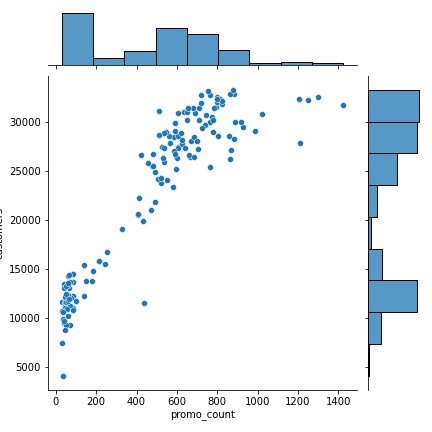
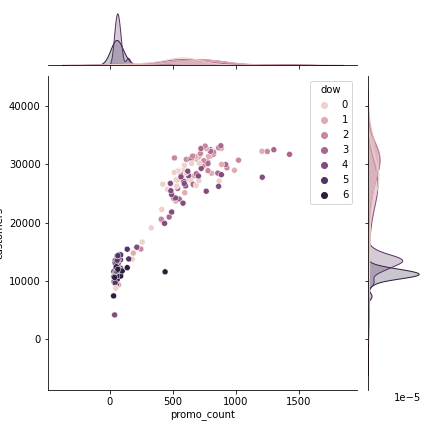
final

diff --git a/hey-you-streamlit.py b/hey-you-streamlit.py
@@ -39,7 +39,10 @@ Hey You in terms of getting customers, placing orders to the kitchen,
 getting paid for the orders, setting up the logistics of the delivery, 
 and marketing through promos and the website blog.
   
-  
+
+Data Limitations
+- Structure of the data is per hour, per day and not per transaction
+
   
 GitHub: maglang/hey-you-analysis
 """)
@@ -77,6 +80,8 @@ if option == '1. Describe customer behavior over time':
     *weekends*, the non-peak hours of the week.
 
     """
+
+    
     a1, b1 = st.beta_columns(2)
     amt_cust_dow = pd.DataFrame.from_dict({'day of week': ['Monday', 'Tuesday', 'Wednesday',  
     'Thursday',    'Friday',  'Saturday',    'Sunday'],
@@ -110,10 +115,42 @@ if option == '2. Describe customer profile':
     - 22903 orders
     - 1 order per customer
     - 8.11 AUD spent per order 
-      
-     
-
     
+    At the day of week level, the metrics are:
+    """   
+
+    dow_summary = pd.DataFrame.from_dict({
+        'Day of Week': ['Monday', 'Tuesday', 'Wednesday', 'Thursday', 'Friday', 'Saturday',
+       'Sunday'],
+       'customers': [555906.0, 581544.0, 604730.0, 605350.0, 525182.0, 286384.0, 241604.0], 
+       'orders': [564142.0, 590508.0, 614612.0, 615342.0, 534720.0, 292402.0, 246774.0],
+       'order_per_customer': [1.0148154544113572, 1.0154141389129627, 1.0163411770542226, 
+       1.0165061534649376, 1.01816132312227, 1.021013743784569, 1.021398652340193],
+       'amount_per_order': [6.842192781250104, 6.789480582820217, 6.891127768413241, 
+       7.004108902041465, 7.682790843806101, 10.076126975875667, 10.649719014158707]
+       }) 
+    dow_summary
+
+    """At the hourly level, the metrics are:"""
+
+    hour_summary = pd.DataFrame.from_dict({'Hour of day': [ 0,  1,  2,  3,  4,  5,  6,  7,  8,  9, 10, 11, 12, 13, 14, 15, 16,
+            17, 18, 19, 20, 21, 22, 23],
+            'customers': [4.0, 2.0, 6.0, 2.0, 12.0, 14582.0, 224750.0, 635220.0, 927164.0, 583956.0, 363232.0, 207140.0, 
+            156904.0, 132200.0, 93600.0, 42760.0, 8652.0, 3820.0, 3212.0, 2372.0, 886.0, 178.0, 38.0, 8.0],
+            'orders': [4.0, 2.0, 6.0, 2.0, 12.0, 14654.0, 227490.0, 644870.0, 941822.0, 595374.0, 370352.0, 211064.0, 159894.0,
+            134488.0, 95428.0, 43574.0, 8802.0, 3878.0, 3260.0, 2402.0, 898.0, 178.0, 38.0, 8.0],
+            'order_per_customer': [1.0, 1.0, 1.0, 1.0, 1.0, 1.0049375942943355, 1.0121913236929923, 1.015191587166651, 
+            1.0158095008002899, 1.0195528430224194, 1.0196017971984848, 1.0189437095684077, 1.0190562382093509, 1.0173071104387292,
+            1.0195299145299146, 1.0190364826941067, 1.0173370319001387, 1.0151832460732984, 1.0149439601494397, 1.0126475548060707, 
+            1.0135440180586908, 1.0, 1.0, 1.0],
+            'amount_per_order': [25.0, 100.0, 36.666666666666664, 50.0, 8.0, 7.126492425276375, 7.039530792562313, 6.972432025059304, 
+            6.7566209538532815, 7.4463139807918965, 7.854607022508305, 8.893474680665577, 10.941265463369483, 8.932071114151453, 
+            6.764872364505179, 6.186674163491988, 8.558582140422633, 24.077194430118624, 41.3845337423313, 40.98659450457953, 
+            38.46897550111359, 41.17561797752809, 30.414736842105263, 30.625]
+            })
+    hour_summary
+
+    """
     We can speculate the customer segments by looking at the promo targeting:
     - One segment has a higher than average amount (higher purchasing power) and avails of less promos
     - Most of the customers belong to the second segment; 
@@ -131,7 +168,12 @@ if option == '2. Describe customer profile':
     """
     - These graphs also show that promos have an inverse effect on the average amount per customer. More customers are ordering
     but customers with a basket that is below the average amount. Depending on the business model, this could increase (if business 
-    model earns from more customers) or slow down (if business model earns from amount of order) the bottomline."""
+    model earns from more customers) or slow down (if business model earns from amount of order) the bottomline.
+    
+    ### Next Steps:
+    - The joint plot shows that the analysis could be wrong when plotted against day of week. The segments described could be affected
+    by the weekly seasonality. Thus, a better way to describe customer profile and segments could be to analyze distinct customer data and behavior.
+    """
 
 if option == '3. Describe the impact of the AI system':
 
@@ -141,11 +183,83 @@ if option == '3. Describe the impact of the AI system':
     The AI system was deployed after the first week March 2021.
     
     --------------------------
+    ### Before vs After AI Deployment
+
+
+    Year to date aggregation metrics are:
+    """
+    metrics_ai = pd.DataFrame.from_dict({"metric":['order_per_customer', 'amount_per_order', 'promo_per_customer',  
+    'order_per_vendor', 'amount_per_vendor', 'promo_per_vendor'],
+       "Before AI": [1.0170220852836773, 7.5646278091047, 0.021160261601127734, 3.5300247954901876, 26.703323734794207, 0.07344604331793328],
+       "Deployed AI": [1.0169105716065427, 7.482367307944383, 0.02086072938215021, 3.773068802191322, 28.23148665614122, 0.07740008750071332]})
+    metrics_ai['pct_change'] = round(((metrics_ai['Deployed AI']/metrics_ai['Before AI']) - 1)*100, 2)
+    metrics_ai['pct_change'] = metrics_ai['pct_change'].astype(str) + "%"
+    metrics_ai
+    """
+    
+
+    ### Daily Metrics
+
+    On a daily level, the metrics before AI was deployed are:"""
+
+    pre_ai_metrics = pd.DataFrame.from_dict({'Day of week': ['Monday', 'Tuesday', 'Wednesday', 'Thursday', 'Friday', 'Saturday',
+       'Sunday'],
+       'order_per_customer': [1.014903129657228, 1.015493835619466, 1.0163808063619362, 1.016583852233893, 1.0180987353684507, 1.021139577208456, 1.0211124197827115],
+       'order_per_vendor': [3.519619177150629, 3.696283185840708, 3.6736648194385237, 3.6915112295393984, 3.4131498918540926, 3.165523826056766, 3.1872530493042435],
+       'amount_per_vendor': [24.362704692281515, 25.25175591311342, 25.398268984836477, 25.90773521126761, 26.35081459075311, 31.97025952608279, 33.763852259062],
+       'promo_per_customer': [0.020486900933406542, 0.024489543318642556, 0.024097349754856535, 0.026123236262238714, 0.023948929647290524, 0.004601241308507163, 0.006879698834303829],
+       'amount_per_order': [6.921971800370965, 6.831661602618791, 6.913605413985019, 7.018192171258869, 7.720380125596773, 10.099516314779265, 10.593401821807788],
+       'promo_per_vendor': [0.07104726283577015, 0.08913917940466613, 0.08709883685524633, 0.09486105824133993, 0.08028817225285001, 0.014263808118508232, 0.021473973544064592]
+       })
+    pre_ai_metrics = pre_ai_metrics[['Day of week', 'order_per_customer', 'amount_per_order', 'promo_per_customer',  
+    'order_per_vendor', 'amount_per_vendor', 'promo_per_vendor']]
+    pre_ai_metrics
+
+    """On a daily level, the metrics after AI was deployed are:"""
+
+    post_ai_metrics = pd.DataFrame.from_dict({'Day of week': ['Monday', 'Tuesday', 'Wednesday', 'Thursday', 'Friday', 'Saturday',
+       'Sunday'],
+       'order_per_customer': [1.0145736727548027, 1.0151348504329776, 1.0161963265746001, 1.0162174793581555, 1.0183899085819574, 1.020639720365079, 1.0222667334334836],
+       'amount_per_customer': [6.718623612594464, 6.742129258128985, 6.919234061552205, 7.064506620969001, 7.684306923676565, 10.213104003107041, 11.061257219162064],
+       'promo_per_customer': [0.020616744852573376, 0.025126640125168465, 0.025110464489707943, 0.0247546346782988, 0.023332860888668414, 0.006879906788359641, 0.006876982139876481],
+       'amount_per_order': [6.622115074553279, 6.641609491835807, 6.808954018634958, 6.951766491392132, 7.545545040186494, 10.006571172297559, 10.820323950101221],
+       'order_per_vendor': [3.8316654753395283, 4.003298918687763, 3.9659316229045243, 3.9388321961234225, 3.628685057761505, 3.360522469857508, 3.330650424189689],
+       'amount_per_vendor': [25.373729704891247, 26.58834809701267, 27.003846061407224, 27.381841676227292, 27.380406539991164, 33.627307270734335, 36.03871655427449],
+       'promo_per_vendor': [0.07786173797610538, 0.09908974280652452, 0.09799915880550382, 0.09594831229998188, 0.083138690739221, 0.0226525392765802, 0.022405916902327606]
+       })
+    post_ai_metrics = post_ai_metrics[['Day of week', 'order_per_customer', 'amount_per_order', 'promo_per_customer',  
+    'order_per_vendor', 'amount_per_vendor', 'promo_per_vendor']]
+    post_ai_metrics
+
     
     """
-    metrics_ai = pd.DataFrame.from_dict({"metric":['order_per_customer', 'order_per_vendor', 'amount_per_vendor',
-       'promo_per_customer', 'amount_per_order', 'promo_per_vendor'],
-       "Before AI": [1.0178, 3.456, 2.776, 1.796, 8.13475337e+00, 6.31723500e-0],
-       "Deployed AI": [1.01494831e+00, 2.53224147e+00, 2.85912964e+01, 2.10129504e-02,
-        1.47108910e+01, 4.88852414e-02]})
-    metrics_ai
+    Key notes:
+    - Number of customers increased versus the previous month but the ratio of customers to orders remained. 
+    - It is also important to note that due to the aggregation of the data, distinct customers were not taken into account.
+    So, customer to order ratio is calculated at an hourly level, i.e., customers order once per hour.
+    - Amount per vendor improved versus previous month."""
+    st.image('overall_graphs/customers_monthly.png')
+
+    """
+    ### Customer Segmentation Post-AI  
+    - Promos have no effect on the amount per customer after the deployment.
+    - There are four distinct customer segments after the deployment.
+    """
+    a3, b3 = st.beta_columns(2)
+    a3.subheader('Before AI: Promos vs Amount of Customers')
+    a3.image('overall_graphs/pre_ai_amtcust_promo.png', use_column_width = True)
+    a3.image('overall_graphs/joint_pre_ai_amtcust_promo.png', use_column_width = True)
+    b3.subheader('After AI: Promos vs Amount of Customers')
+    b3.image('overall_graphs/post_ai_amtcust_promo.png', use_column_width = True)
+    b3.image('overall_graphs/joint_post_ai_amtcust_promo.png', use_column_width = True)
+
+    a4, b4 = st.beta_columns(2)
+    a4.subheader('Before AI: Promos vs Volume of Customers')
+    a4.image('overall_graphs/pre_ai_cust_promo.png', use_column_width = True)
+    a4.image('overall_graphs/joint_pre_ai_cust_promo.png', use_column_width = True)
+    b4.subheader('After AI: Promos vs Volume of Customers')
+    b4.image('overall_graphs/post_ai_cust_promo.png', use_column_width = True)
+    b4.image('overall_graphs/joint_post_ai_cust_promo.png', use_column_width = True)
+
+    
+    
